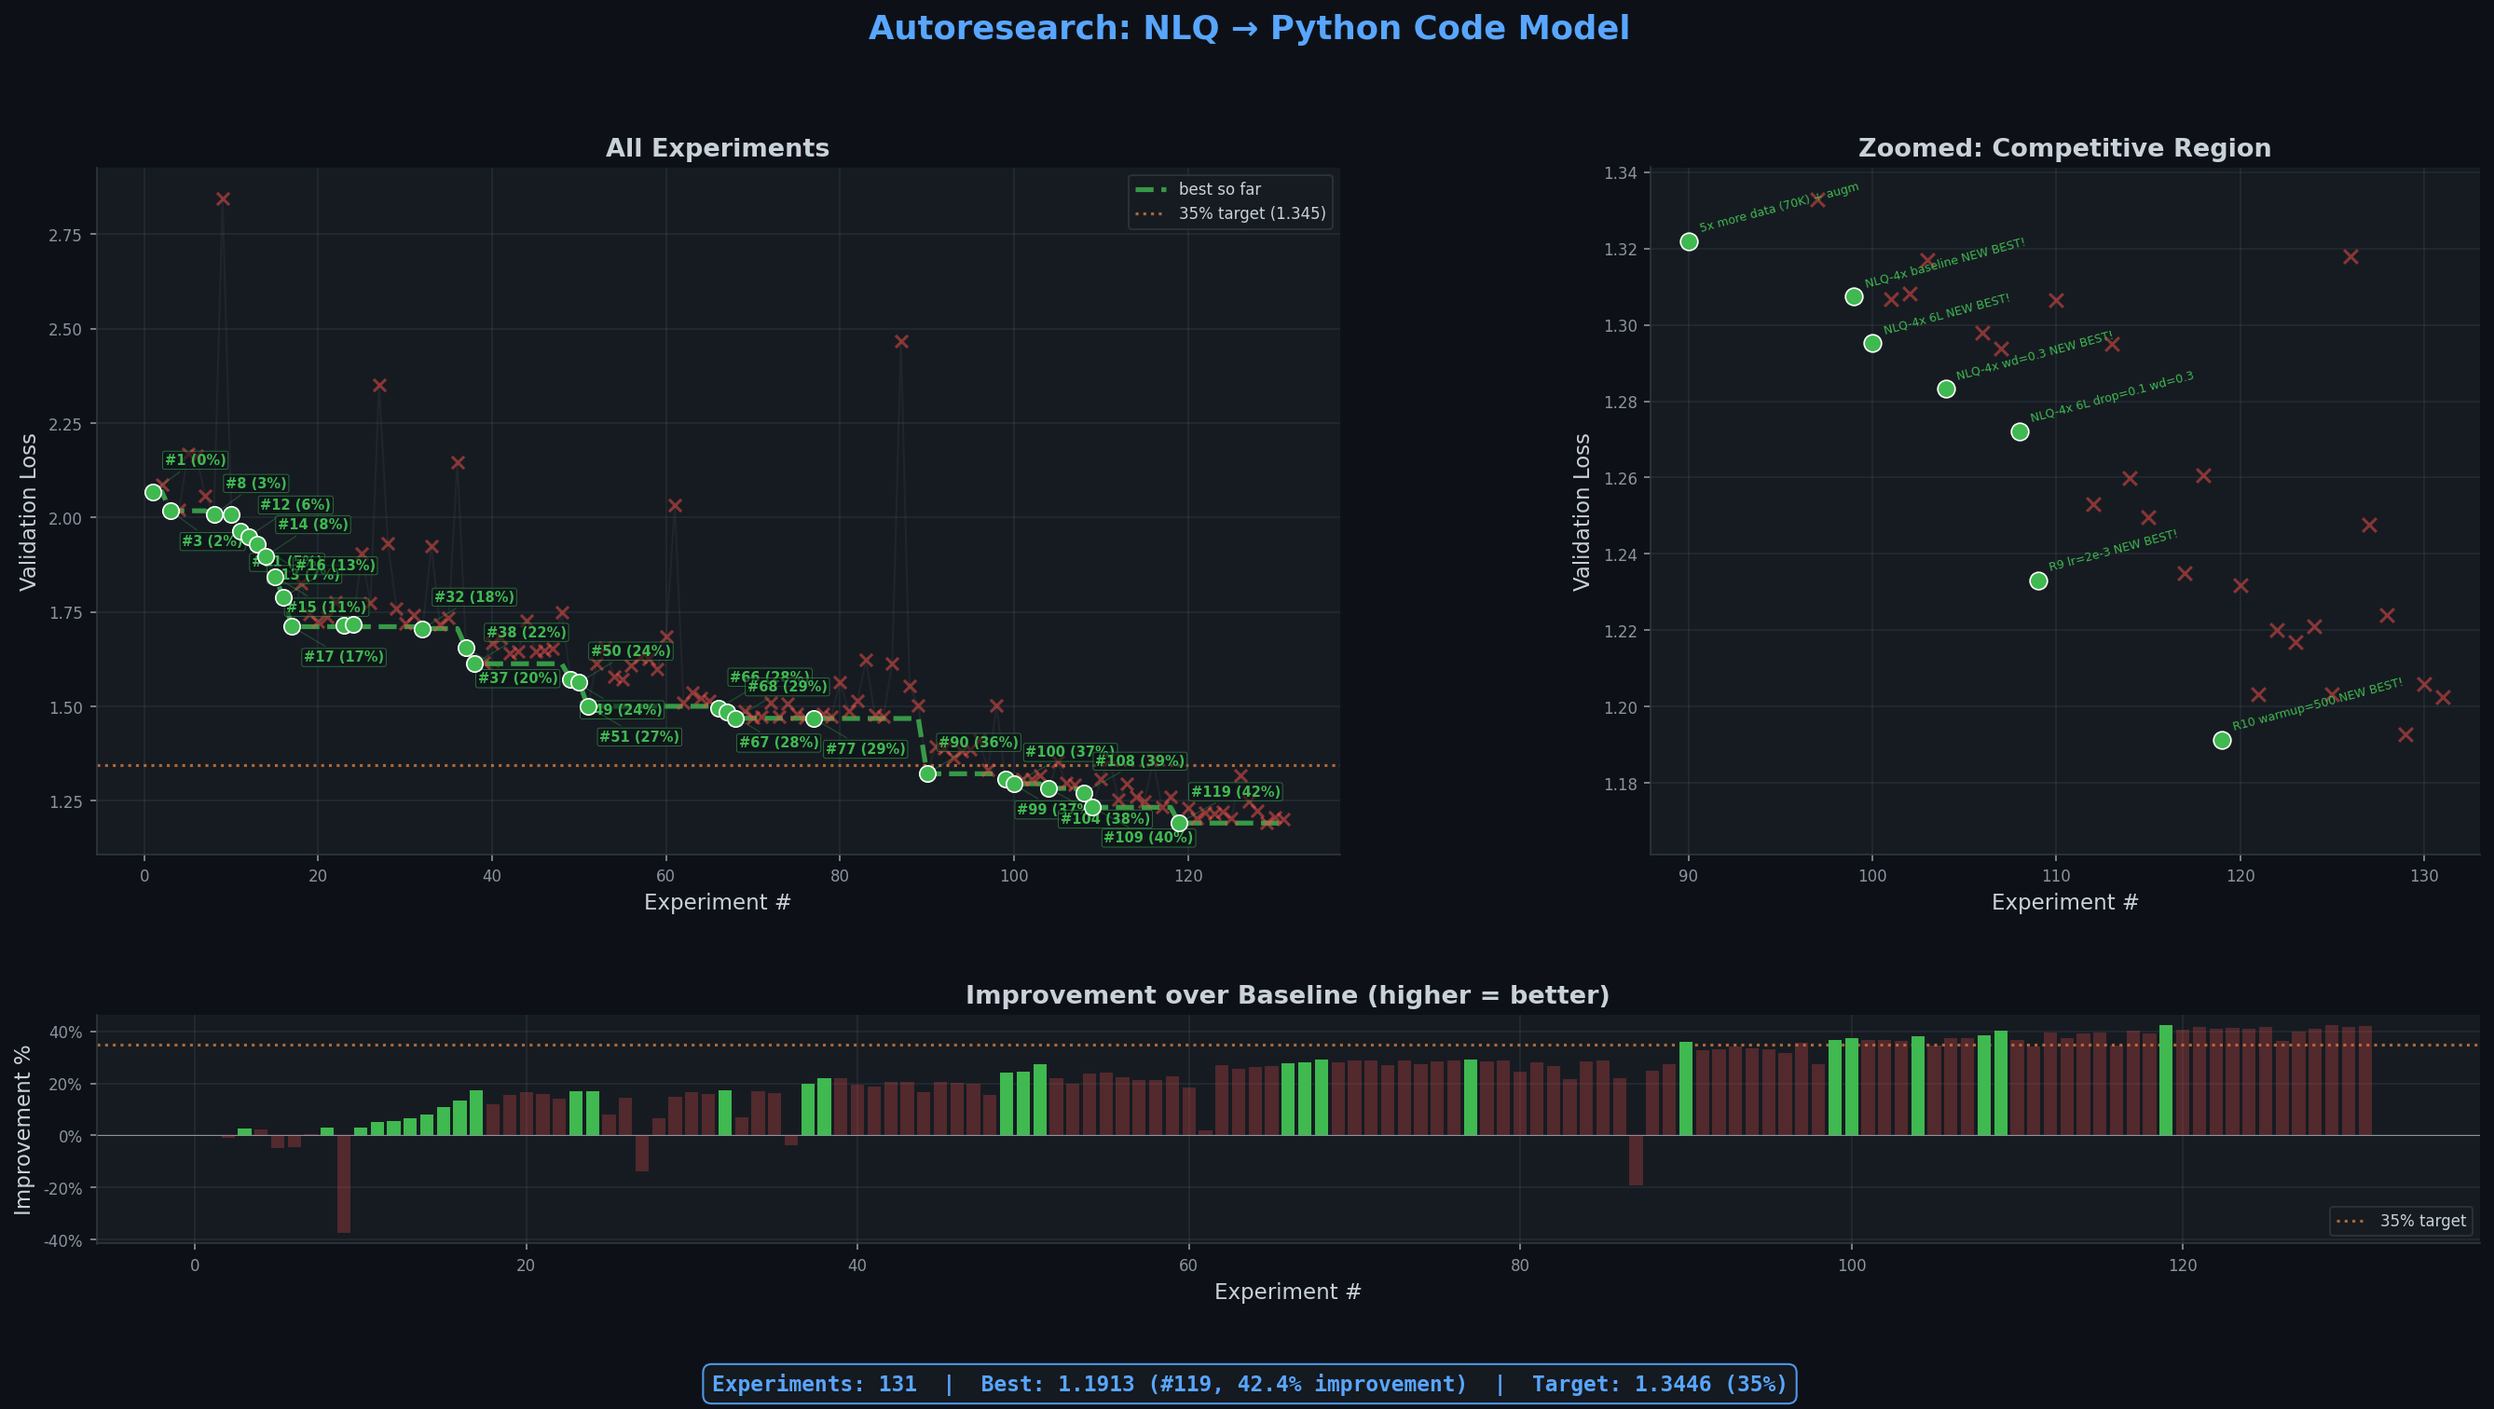
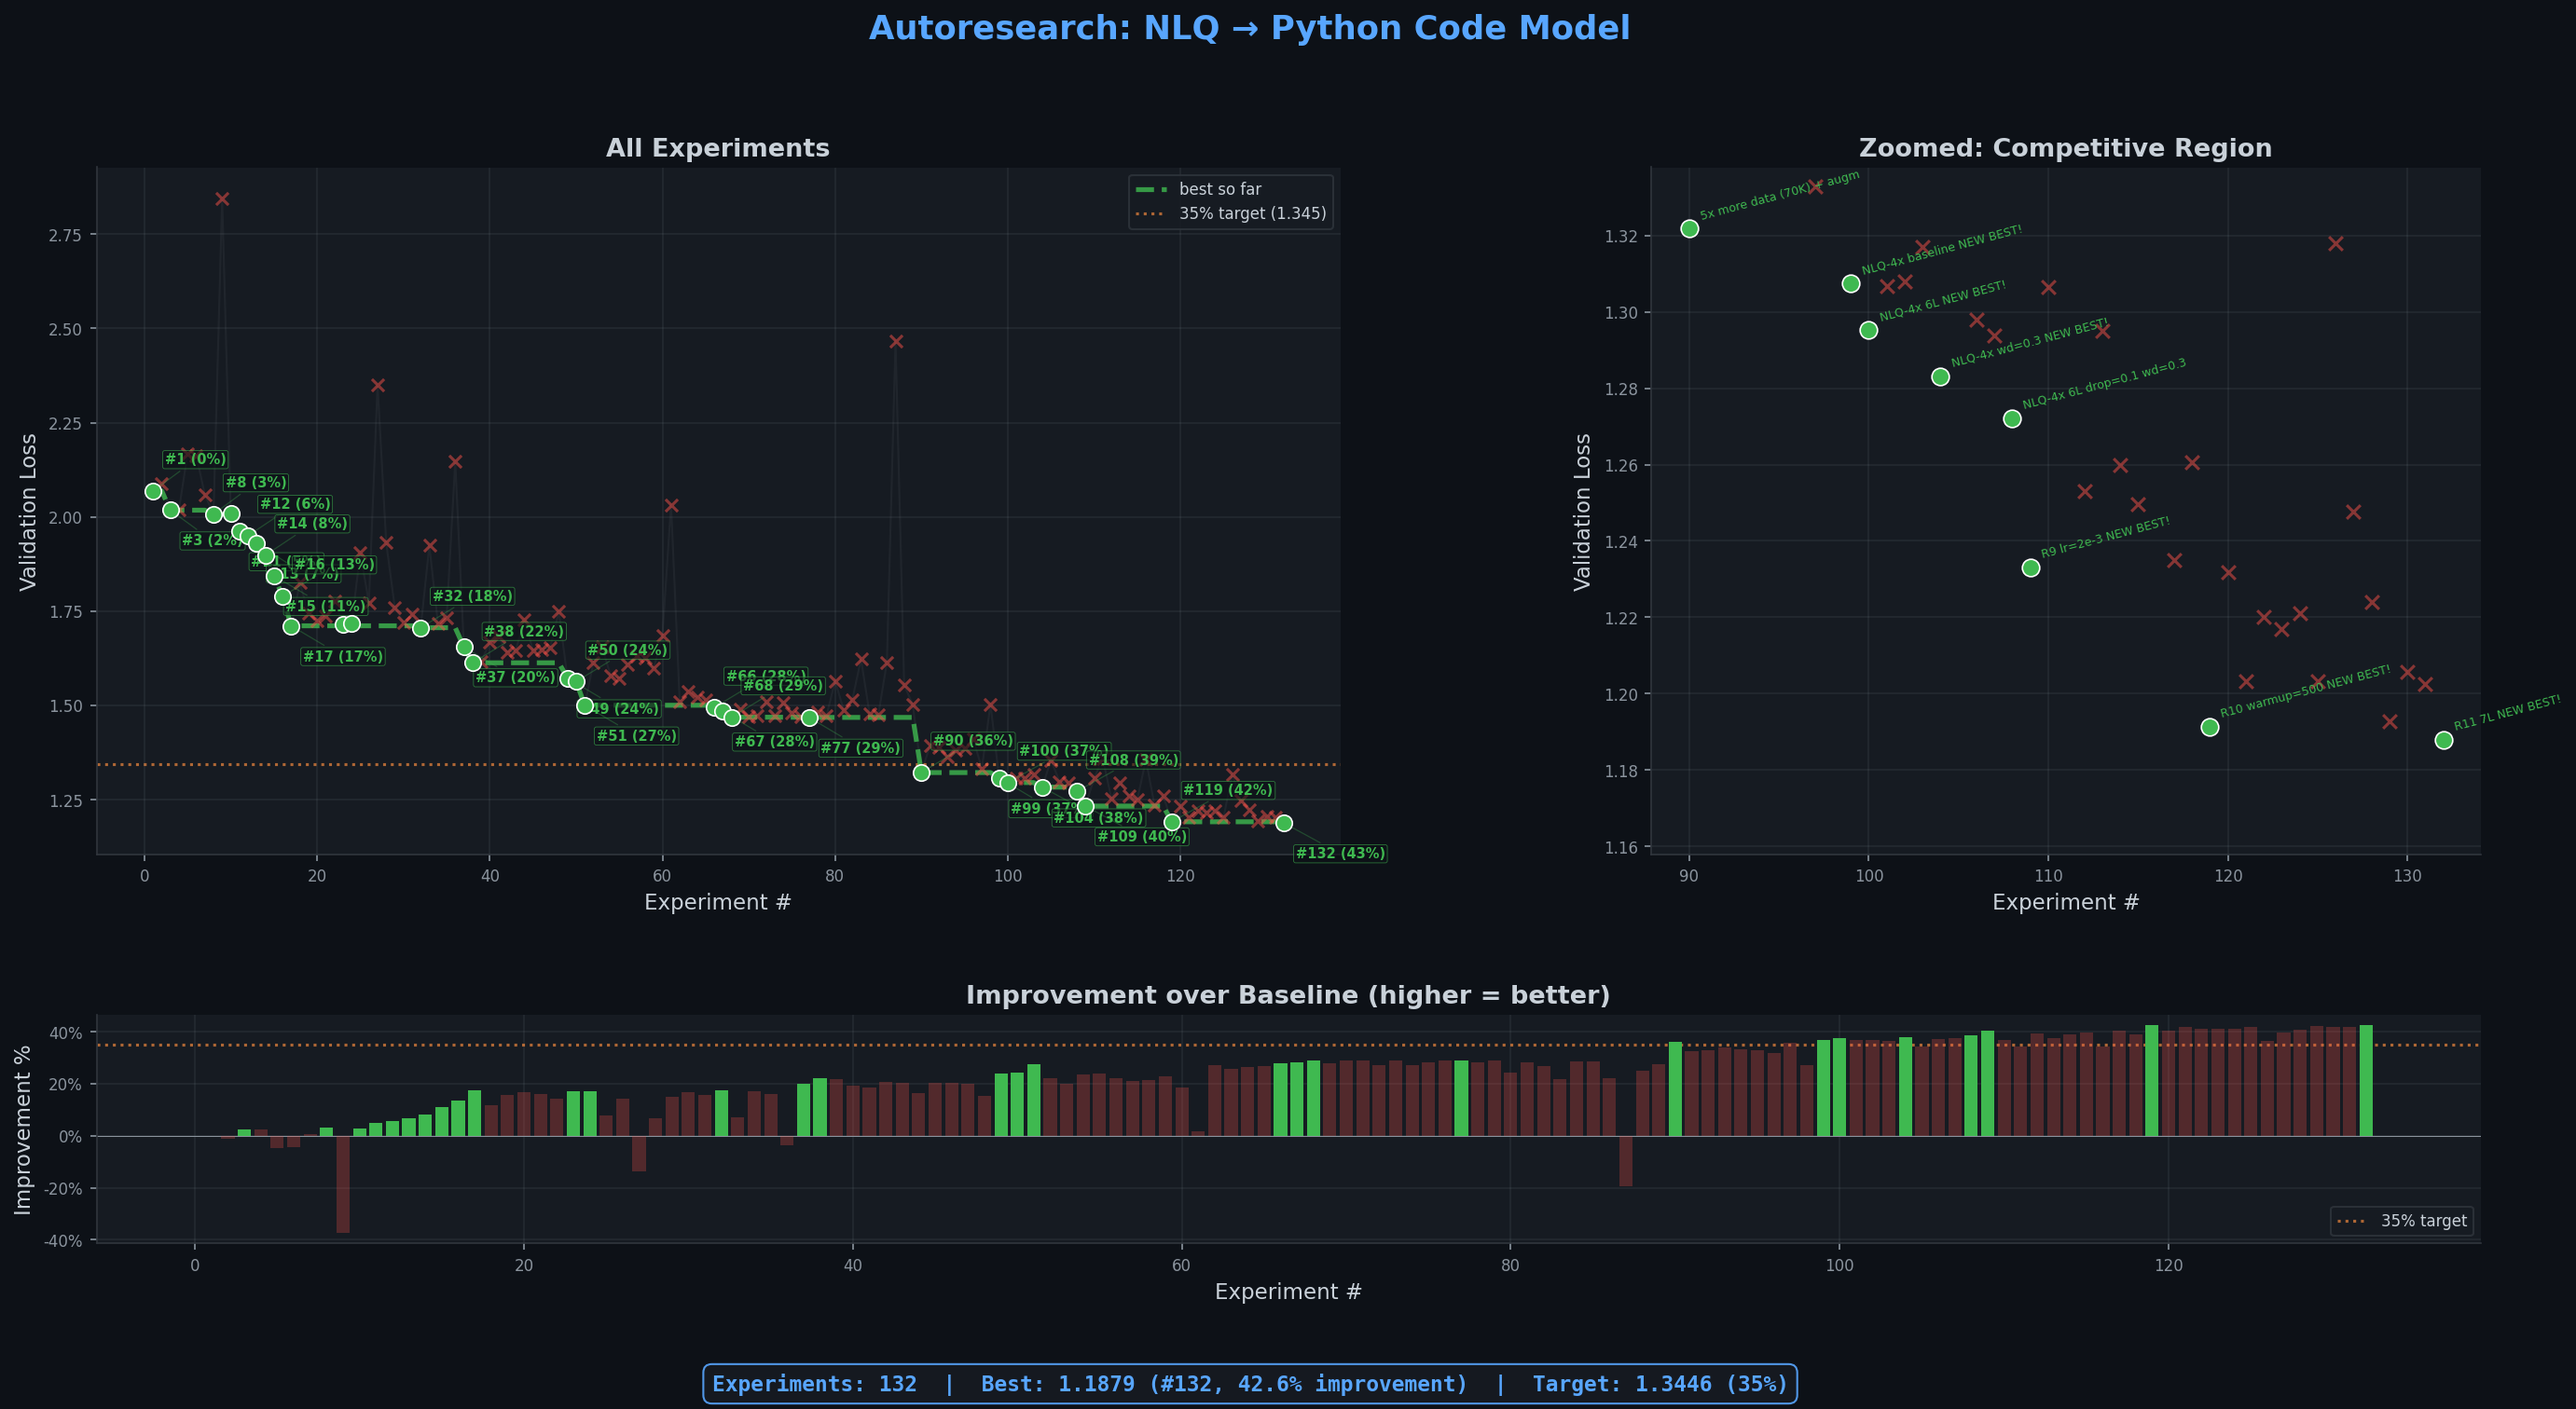
exp 132: R11 7L NEW BEST! (val=1.1879, 42.6%)

diff --git a/train_mlx.py b/train_mlx.py
@@ -36,7 +36,7 @@ TOKENIZER_DIR = os.path.join(CACHE_DIR, "tokenizer")
 # Model
 VOCAB_SIZE = 2048
 MAX_SEQ_LEN = 512
-DEPTH = 6
+DEPTH = 7
 N_EMBD = 320
 HEAD_DIM = 64
 N_HEAD = N_EMBD // HEAD_DIM  # 5
